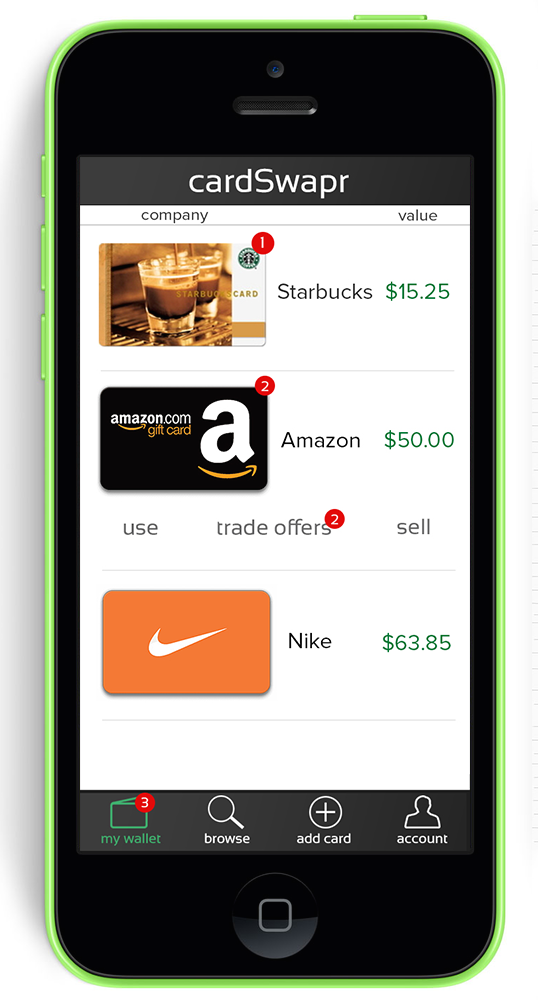
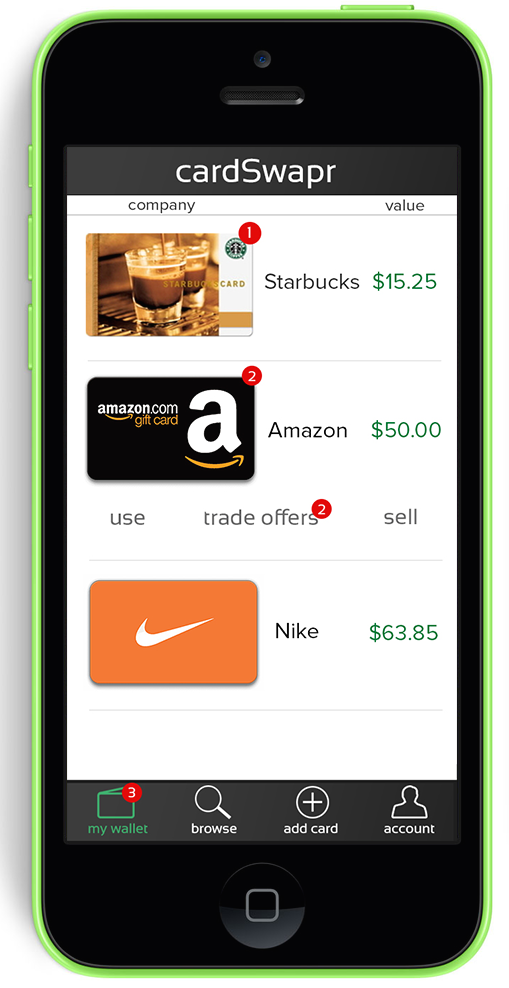
phone, tablet, desktop, all scale correctly. Ready for animation

diff --git a/css/styles.css b/css/styles.css
@@ -1,17 +1,9 @@
 
 @import url(http://fonts.googleapis.com/css?family=Open+Sans);
 
-@font-face {
-  font-family: 'Sansation-Bold';
-  src: url('Sansation-Bold.eot');
-  src: url('Sansation-Bold.eot?#iefix') format('embedded-opentype'),
-       url('Sansation-Bold.woff') format('woff'),
-       url('Sansation-Bold.ttf') format('truetype'),
-       url('Sansation-Bold.svg#Sansation-Bold') format('svg');
-}
-
-.fontpro,.fontpro-35896 {
-  font-family: 'Sansation-Bold',sans-serif;
+@font-face { 
+	font-family: Sansation-Bold; 
+	src: url('Sansation-Bold.ttf'); 
 }
 
 /*NAV-BAR*/
@@ -47,8 +39,8 @@ button {
 
 #desktopmotto {
 	text-align: center;
-	margin-left: 10px;
-	margin-right: 10px;
+	margin-left: 5px;
+	margin-right: 5px;
 }
 
 #phonemotto {
@@ -66,61 +58,88 @@ button {
 
 /*BODY*/
 
-.main-content h1 {
+.container h1 {
 	font-family: Sansation-Bold;
 	font-size: 50px;
 	color: #197811;
 }
 
 .gold_iphone {
-	width: 60%;
-	margin-left: 45%;
+	width: 80%;
+	margin-left: 20%;
 	margin-top: 10%;
 }
 
 .gold_iphone_right {
-	width: 60%;
-	margin-right: 35%;
+	width: 80%;
+	margin-right: 15%;
 	margin-top: 10%;
 }
 
 .iphone_5c {
-	width: 80%;
-	margin-left: 10%;
+	width: 100%;
 }
 
 /*FOOTER*/
 
 footer {
 	text-align: center;
+	margin-top: 10px;
+	margin-bottom: 10px;
+}
+
+#footerline {
+	margin-top: 20px;
+	width: 100=%;
+	height: 1px;
+	background: black;
+
 }
 
 /*MEDIA QUERIES*/
 
-/*Deletes "Sign Up" button for phones*/
-@media (max-width: 668px) {
+/*Large phones, small, medium, and large tablets*/
+@media (min-width: 487px) and (max-width: 992px) {
+	.gold_iphone_right {
+		display: none;
+	}
+	.gold_iphone {
+		margin-top: 2%;
+		width: 71.5%;
+		margin-left: 28%;
+	}
+	.iphone_5c {
+		width: 80%;
+		margin-left: 3%;
+	}
+
+	#desktopmotto {
+		font-size: 40px;
+		margin-left: 5px;
+		margin-right: 5px;
+	}	
+	#phonemotto {
+		display: none;
+	}
+
 	#signup {
 		display: none;
 	}
 }
 
-/*Deletes "Your Cards, Your Way, except for phone*/
-@media (min-width: 487px) {
+@media (min-width: 993px) {
 	#phonemotto {
 		display: none;
 	}
 }
 
-/*So that we always have the motto on one line*/
-@media (max-width: 850px) {
+/*Deletes "Your Cards, Your Way, except for phone*/
+@media (max-width: 487px) {
+
 	#desktopmotto {
-		font-size: 27px;
+		display: none;
 	}
 
-}
-
-/*Phone app home screen*/
-@media (max-width: 486px) {
 	.logo {
 		width: 160px;
 		margin-top: 11px;
@@ -143,13 +162,27 @@ footer {
 		display: none;
 	}
 
-	.gold_iphone, .gold_iphone_right {
-		display: none;
-	}
-
 	#login {
 		width: 50px;
 	}
+
+	#signup {
+		display: none;
+	}
+
+	.gold_iphone_right, .gold_iphone {
+		display: none;
+	}
+
+	.iphone_5c {
+		width: 150%;
+		margin-left: 33%;
+	}
+
+	.leftphone {
+		display: none;
+	}
 }
+
 
 

diff --git a/index.html b/index.html
@@ -49,18 +49,32 @@
       </div>
     </div>
 
-    <div class="main-content">
+
+
+    <div class="container">
+      <!-- Desktop and tablet Motto -->
       <h1 id="desktopmotto">Your personal gift card trading center</h1>
       <!-- This displays on phones only -->
       <h1 id="phonemotto">Your Cards, Your Way</h1>
+
       <div class="row">
-        <div class="col-md-4"><img class="gold_iphone" src="img/cardswapr3.0.png"></div>
-        <div class="col-md-4"><img class="iphone_5c" src="img/green_iphone-5c.png"></div>
-        <div class="col-md-4"><img class="gold_iphone_right" src="img/cardswapr3.0.png"></div>
+        <div class="col-xs-6 col-md-4 leftphone"><img class="gold_iphone" src="img/cardswapr3.0.png"></div>
+        <div class="col-xs-6 col-md-4"><img class="iphone_5c" src="img/green_iphone-5c.png"></div>
+        <div id="3rdphone" class="col-md-4"><img class="gold_iphone_right" src="img/cardswapr3.0.png"></div>
       </div>
     </div>
 
-    <footer>CardSwapr, LLC. Copyright 2014. All Rights Reserved.</footer>
+
+
+    <div id="footerline"></div>
+    <footer>
+    
+
+    CardSwapr, LLC. Copyright 2014. All Rights Reserved.
+
+
+
+    </footer>
 
     <!-- jQuery (necessary for Bootstrap's JavaScript plugins) -->
     <script src="https://ajax.googleapis.com/ajax/libs/jquery/1.11.1/jquery.min.js"></script>
